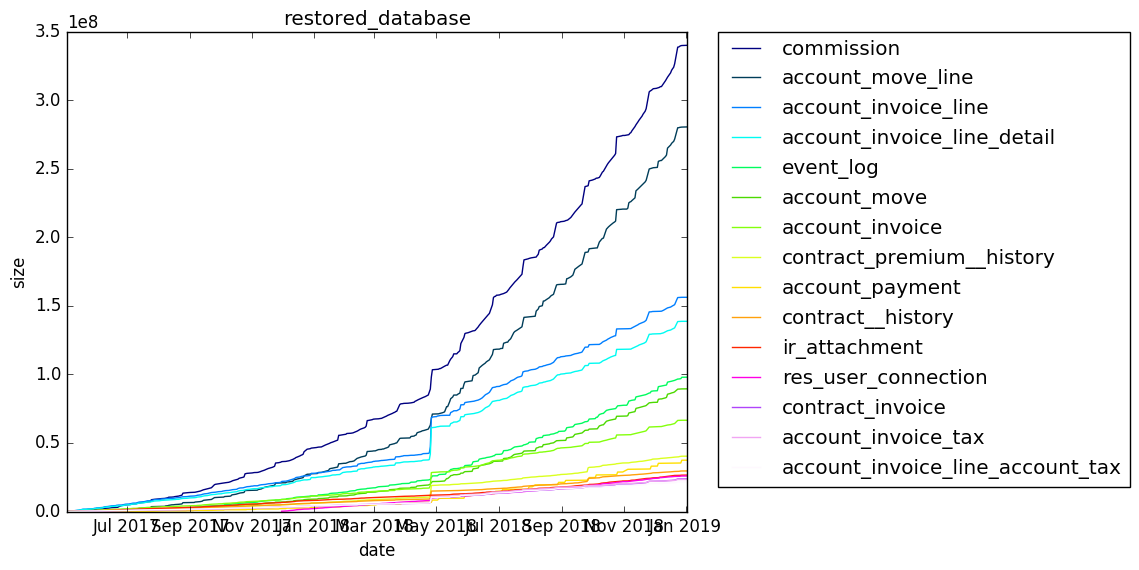
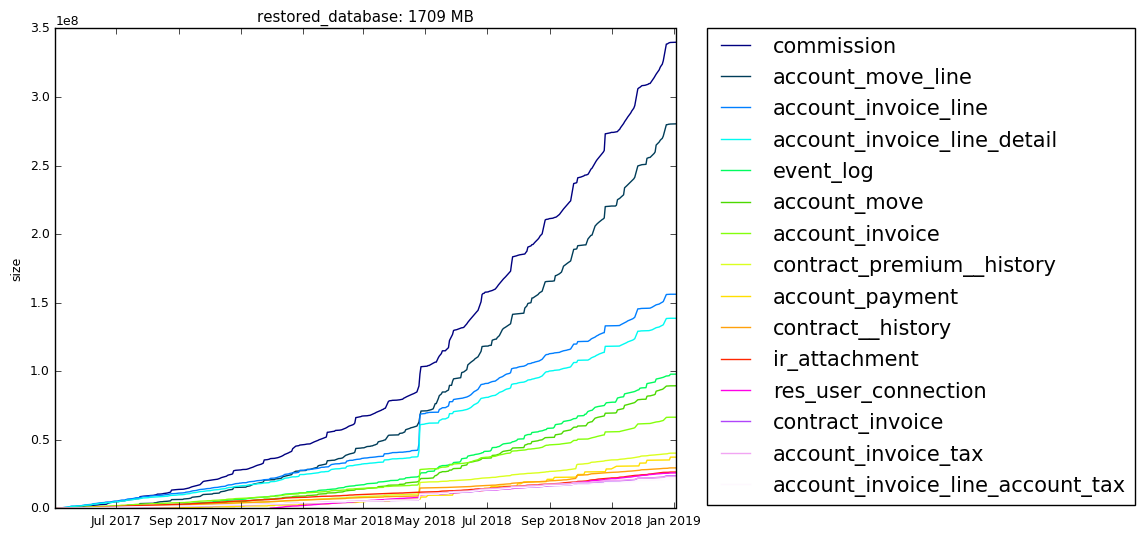
script final v1

diff --git a/scriptbddconnection.py b/scriptbddconnection.py
@@ -24,6 +24,8 @@ def show_bdd_increase (username, passwrd, host_ip, port_number, database_name):
         #plot
         fig = plt.figure()
         ax = fig.add_subplot(111)
+        plt.rc('font', size=9)
+        plt.rc('legend', fontsize=15)
         
 
         #tab that will be save in the txt (names,size and size(pretty))
@@ -40,7 +42,7 @@ def show_bdd_increase (username, passwrd, host_ip, port_number, database_name):
         	table_name = str(row[0])
         	tab_save_name.append(str(row[0]))
         	tab_save_size_pretty.append(str(row[1]))
-        	tab_save_size.append(str(row[2]))
+        	tab_save_size.append(row[2])
         	#for non_history table
         	if '__history' not in table_name:
         		query = "SELECT create_date::date, count(id) FROM %s \
@@ -74,26 +76,18 @@ def show_bdd_increase (username, passwrd, host_ip, port_number, database_name):
 
         	ax.plot(tab_date, tab_size, label= table_name)
 
-
         #define color,legend and label for the plot
         colormap = plt.cm.gist_ncar   
         colors = [colormap(i) for i in np.linspace(0, 1,len(ax.lines))]
         for i,j in enumerate(ax.lines):
         	j.set_color(colors[i])
         #set label and title
-        ax.set(xlabel='date',ylabel='size', title = database_name)
+        ax.set(ylabel='size', title = database_name + ": "+database_size)
         #legend
         ax.legend(bbox_to_anchor=(1.05, 1), loc=2, borderaxespad=0.)
+
         #save plot with the table name as png
         fig.savefig(database_name +".png", bbox_inches='tight')
-
-
-        #save the data and informations in a text file
-        info_file = open(database_name+"_info","w")
-        info_file.write("database name : " + database_name + "\ndatabase total size: " + database_size +"\n\n\n")
-        for i in range(len(tab_save_name)):
-        	info_file.write(tab_save_name[i]+" , "+tab_save_size_pretty[i]+" , "+tab_save_size[i]+" bytes\n")
-        info_file.close()
 
         
     except (Exception, psycopg2.Error) as error :
